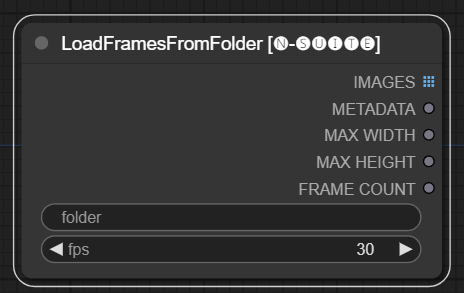
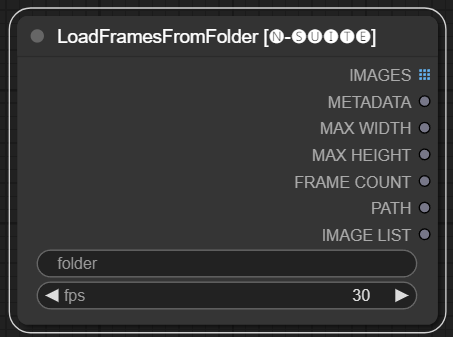
- some graphic fix - reboot alert - Added some parameter to loadframefromfolder

Changed region(s): [[0.0, 0.0, 1.0, 1.0]]

diff --git a/nnodes.py b/nnodes.py
@@ -13,11 +13,63 @@ import importlib.util
 import torch
 import folder_paths
 import sys
+import git
+
 
 config = None
 
+class color:
+        END = '\33[0m'
+        BOLD = '\33[1m'
+        ITALIC = '\33[3m'
+        UNDERLINE = '\33[4m'
+        BLINK = '\33[5m'
+        BLINK2 = '\33[6m'
+        SELECTED = '\33[7m'
+
+        BLACK = '\33[30m'
+        RED = '\33[31m'
+        GREEN = '\33[32m'
+        YELLOW = '\33[33m'
+        BLUE = '\33[34m'
+        VIOLET = '\33[35m'
+        BEIGE = '\33[36m'
+        WHITE = '\33[37m'
+
+        BLACKBG = '\33[40m'
+        REDBG = '\33[41m'
+        GREENBG = '\33[42m'
+        YELLOWBG = '\33[43m'
+        BLUEBG = '\33[44m'
+        VIOLETBG = '\33[45m'
+        BEIGEBG = '\33[46m'
+        WHITEBG = '\33[47m'
+
+        GREY = '\33[90m'
+        LIGHTRED = '\33[91m'
+        LIGHTGREEN = '\33[92m'
+        LIGHTYELLOW = '\33[93m'
+        LIGHTBLUE = '\33[94m'
+        LIGHTVIOLET = '\33[95m'
+        LIGHTBEIGE = '\33[96m'
+        LIGHTWHITE = '\33[97m'
+
+        GREYBG = '\33[100m'
+        LIGHTREDBG = '\33[101m'
+        LIGHTGREENBG = '\33[102m'
+        LIGHTYELLOWBG = '\33[103m'
+        LIGHTBLUEBG = '\33[104m'
+        LIGHTVIOLETBG = '\33[105m'
+        LIGHTBEIGEBG = '\33[106m'
+        LIGHTWHITEBG = '\33[107m'
 
 
+def get_commit():
+    try:
+        repo = git.Repo( os.path.join(folder_paths.folder_names_and_paths["custom_nodes"][0][0],"ComfyUI-N-Nodes"))
+        return repo.head.object.hexsha[:8]
+    except:
+        return 0
 
 def check_nvidia_gpu():
     try:
@@ -85,7 +137,7 @@ def get_last_llcpppy_version():
 
 from packaging import version
 
-def check_and_install(package, import_name="", desired_version=None):
+def check_and_install(package, import_name="", desired_version=None,reboot=False):
     if import_name == "":
         import_name = package
     try:
@@ -99,11 +151,11 @@ def check_and_install(package, import_name="", desired_version=None):
                     print(f"Updating {import_name} to version {desired_version}...")
                     install_package(f"{package}=={desired_version}")
                     print(f"{import_name} updated successfully to version {desired_version}")
-                else:
-                    print(f"{import_name} is already up-to-date with version {current_version}")
+                #else:
+                #    print(f"{import_name} is already up-to-date with version {current_version}")
 
         else:
-            print(f"Version of {import_name}: Version information not found")
+            print(f"Version of {import_name}: Not found")
 
         
     except ImportError:
@@ -112,6 +164,10 @@ def check_and_install(package, import_name="", desired_version=None):
             install_llama()
         else:
             install_package(package)
+            if reboot:
+                print(f"{color.RED}------------------------------------------{color.END}")
+                print(f"{color.RED}IMPORTANT: Please reboot ComfyUI!{color.END}")
+                print(f"{color.RED}------------------------------------------{color.END}")
 
 def install_package(package):
     subprocess.check_call([sys.executable, "-m", "pip", "install", "--no-cache-dir", package])
@@ -199,7 +255,7 @@ def log(message, type=None, always=False, name=None):
     if name is None:
         name = get_extension_config()["name"]
 
-    print(f"(nnodes:{name}) {message}")
+    print(f"{name}: {message}")
 
 
 def get_ext_dir(subpath=None, mkdir=False):
@@ -226,76 +282,20 @@ def get_comfy_dir(subpath=None, mkdir=False):
     return dir
 
 
-def get_web_ext_dir():
-    config = get_extension_config()
-    name = config["name"]
-    dir = get_comfy_dir("web/extensions/comfyui-n-nodes")
-    if not os.path.exists(dir):
-        os.makedirs(dir)
-    dir = os.path.join(dir, name)
-    return dir
 
 def get_extension_config(reload=False):
     global config
     if reload == False and config is not None:
         return config
 
-    config_path = get_ext_dir("nnodes.json")
+    config_path = get_ext_dir("config.json")
     if not os.path.exists(config_path):
-        log("Missing nnodes.json, this extension may not work correctly. Please reinstall the extension.",
-            type="ERROR", always=True, name="???")
+        log("Missing config.json, this extension may not work correctly. Please reinstall the extension.", type="ERROR", always=True, name="???")
         print(f"Extension path: {get_ext_dir()}")
         return {"name": "Unknown", "version": -1}
     with open(config_path, "r") as f:
         config = json.loads(f.read())
     return config
-
-
-
-def link_js(src, dst):
-    src = os.path.abspath(src)
-    dst = os.path.abspath(dst)
-    if os.name == "nt":
-        try:
-            import _winapi
-            _winapi.CreateJunction(src, dst)
-            return True
-        except:
-            pass
-    try:
-        os.symlink(src, dst)
-        return True
-    except:
-        import logging
-        logging.exception('')
-        return False
-
-def is_junction(path):
-    if os.name != "nt":
-        return False
-    try:
-        return bool(os.readlink(path))
-    except OSError:
-        return False
-
-def install_js():
-    src_dir = get_ext_dir("js")
-    if not os.path.exists(src_dir):
-        log("No JS")
-        return
-
-    dst_dir = get_web_ext_dir()
-
-    if os.path.exists(dst_dir):
-        if os.path.islink(dst_dir) or is_junction(dst_dir):
-            log("JS already linked")
-            return
-    elif link_js(src_dir, dst_dir):
-        log("JS linked")
-        return
-
-    log("Copying JS files")
-    shutil.copytree(src_dir, dst_dir, dirs_exist_ok=True)
 
 
 def init(check_imports=None):
@@ -310,7 +310,7 @@ def init(check_imports=None):
                     type="ERROR", always=True)
                 return False
 
-    #install_js()
+   
     return True
 
 
@@ -361,8 +361,6 @@ async def download_to_file(url, destination, update_callback=None, is_ext_subpat
         destination = get_ext_dir(destination)
     with open(destination, mode='wb') as f:
         download(url, f, update_callback, session)
-
-
 
 
 def is_inside_dir(root_dir, check_path):

diff --git a/py/video_node_advanced.py b/py/video_node_advanced.py
@@ -660,14 +660,15 @@ class LoadFramesFromFolder:
                              }}
     
 
-    RETURN_TYPES = ("IMAGE","STRING","INT","INT","INT",)
-    RETURN_NAMES = ("IMAGES","METADATA","MAX WIDTH","MAX HEIGHT","FRAME COUNT")
+    RETURN_TYPES = ("IMAGE","STRING","INT","INT","INT","STRING","STRING",)
+    RETURN_NAMES = ("IMAGES","METADATA","MAX WIDTH","MAX HEIGHT","FRAME COUNT","PATH","IMAGE LIST")
     FUNCTION = "load_images"
-    OUTPUT_IS_LIST = (True,False,False,False,False,)
+    OUTPUT_IS_LIST = (True,False,False,False,False,False,False,)
     CATEGORY = "N-Suite/Video"
 
     def load_images(self, folder,fps):
         image_list = []
+        image_names = []
         max_width = 0
         max_height = 0
         frame_count = 0
@@ -677,6 +678,8 @@ class LoadFramesFromFolder:
         images.sort(key=lambda f: int(''.join(filter(str.isdigit, f))))
         
         for image_path in images:
+            #get image name
+            image_names.append(image_path.split("/")[-1])
             image = Image.open(image_path)
             width, height = image.size
             max_width = max(max_width, width)
@@ -684,9 +687,10 @@ class LoadFramesFromFolder:
             image_list.append((image_preprocessing(image)))
             frame_count += 1
     
+        image_names_final='\n'.join(image_names)
         print (f"Details: {frame_count} frames, {max_width}x{max_height}")
 
-        return (image_list,METADATA, max_width, max_height,frame_count,)
+        return (image_list,METADATA, max_width, max_height,frame_count,folder,image_names_final,)
     
 class SetMetadata:
     def __init__(self):

diff --git a/__init__.py b/__init__.py
@@ -1,23 +1,17 @@
-# code based on pysssss repo
 import importlib.util
-import glob
 import os
 import sys
-from .nnodes import init, get_ext_dir,check_and_install,downloader
+from .nnodes import init, get_ext_dir,check_and_install,downloader,get_commit,color
 import folder_paths
 import traceback
 from pathlib import Path
-import shutil
-
 NODE_CLASS_MAPPINGS = {}
 NODE_DISPLAY_NAME_MAPPINGS = {}
 
-  
 
 if init():
-    #py = get_ext_dir("py")
-    #files = glob.glob("*.py", root_dir=py, recursive=False)
-
+    print("------------------------------------------")
+    print(f"{color.BLUE}### N-Suite Revision:{color.END} {color.GREEN}{get_commit()} {color.END}")
     py = Path(get_ext_dir("py"))
     files = list(py.glob("*.py"))
     check_and_install('packaging')
@@ -30,7 +24,8 @@ if init():
     check_and_install('typing')
     check_and_install('diskcache')
     check_and_install('llama_cpp')
-    check_and_install('timm',"timm","0.9.12")
+    check_and_install('timm',"timm","0.9.12",reboot=True)
+    check_and_install('gitpython',"git")
     #check_and_install('sentencepiece')
     #check_and_install("accelerate")
     #check_and_install('transformers','transformers',"4.36.2")
@@ -59,7 +54,7 @@ if init():
     if not os.path.exists(os.path.join(folder_paths.folder_names_and_paths["custom_nodes"][0][0],"ComfyUI-N-Nodes","libs","rifle","train_log")):
         downloader("https://github.com/Nuked88/DreamingAI/raw/main/RIFE_trained_model_v4.7.zip")
                    
-
+    # code based on pysssss repo
     for file in files:
         try:
             name = os.path.splitext(file)[0]

diff --git a/README.md b/README.md
@@ -91,6 +91,7 @@ The node extracts frames from the input video at the specified framerate. It res
 ### SaveVideo
 The SaveVideo node takes in extracted frames and saves them back as a video file.
 ![alt text](./img/image-3.png)
+
 #### Input Fields
 - `images`: Frame images as tensors.
 - `METADATA`: Metadata from LoadVideo node.
@@ -104,7 +105,6 @@ The node takes extracted frames and metadata and can save them as a new video fi
 NOTE: If you are using **LoadVideo** as source of the frames, the audio of the original file will be maintained but only in case **images_limit** and **starting_frame** are equal to Zero.
 
 ### LoadFramesFromFolder
-
 ![alt text](./img/image.png)
 
 The LoadFramesFromFolder node allows loading image frames from a folder and returning them as a batch.
@@ -117,6 +117,11 @@ The LoadFramesFromFolder node allows loading image frames from a folder and retu
 #### Output
 - `IMAGES`: Batch of loaded frame images as PyTorch tensors.
 - `METADATA`: Metadata containing the set FPS value.
+- `MAX_WIDTH`: Maximum frame width.
+- `MAX_HEIGHT`: Maximum frame height.
+- `FRAME COUNT`: Number of frames in the folder.
+- `PATH`: Path to the folder containing the frame images.
+- `IMAGE LIST`: List of frame images in the folder (not a real list just a string divided by \n).
 
 The node loads all image files from the specified folder, converts them to PyTorch tensors, and returns them as a batched tensor along with simple metadata containing the set FPS value.
 
